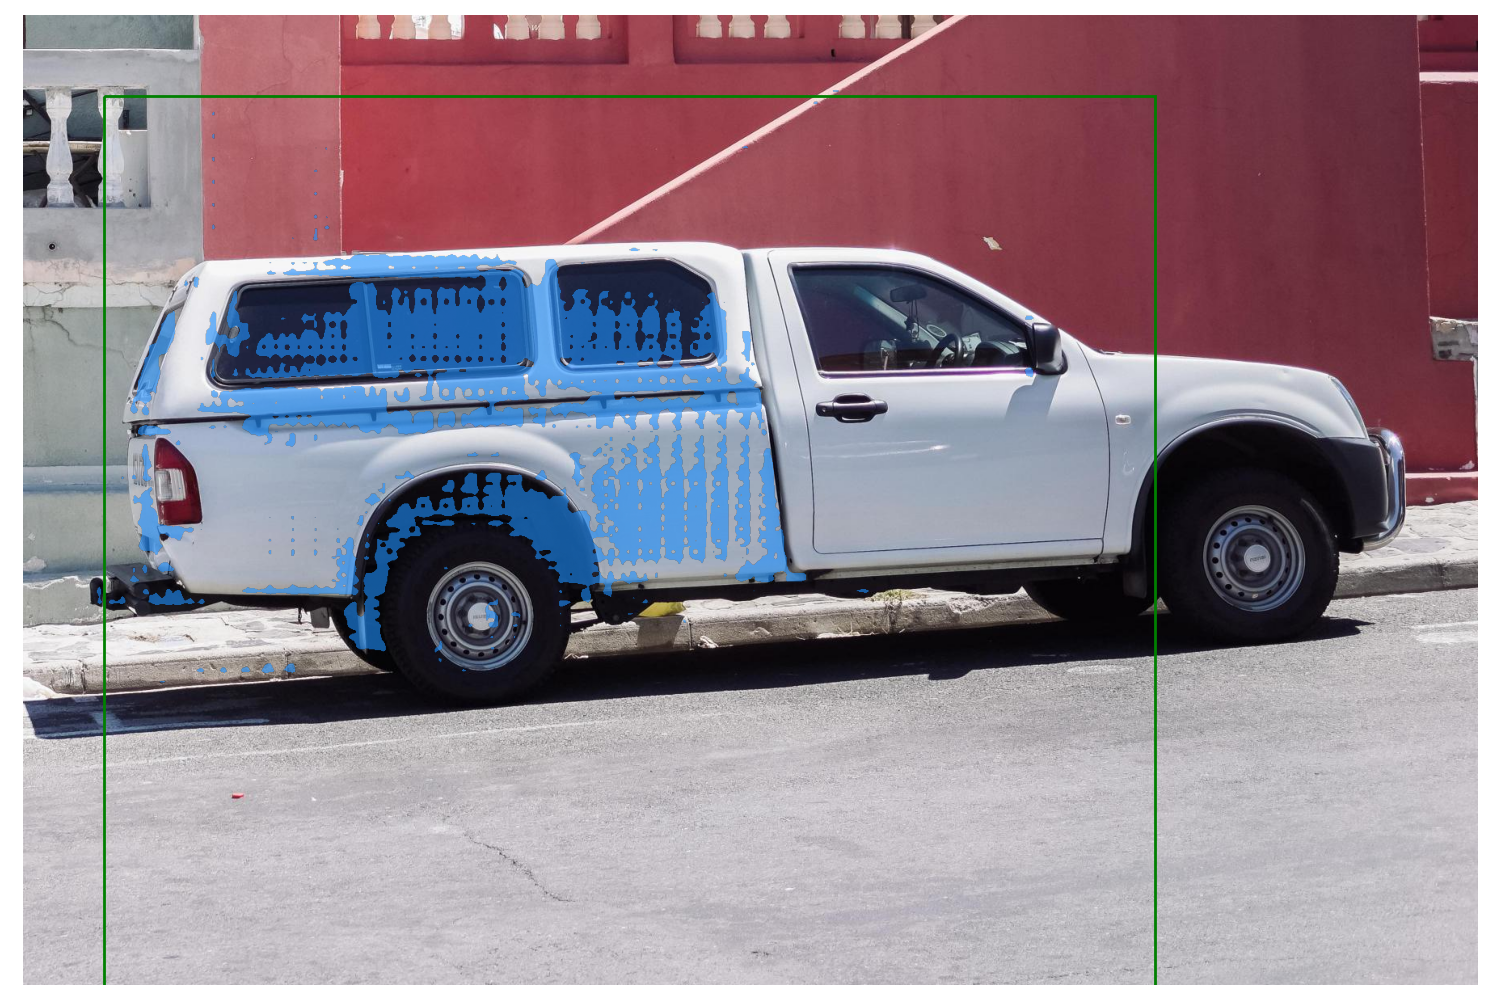
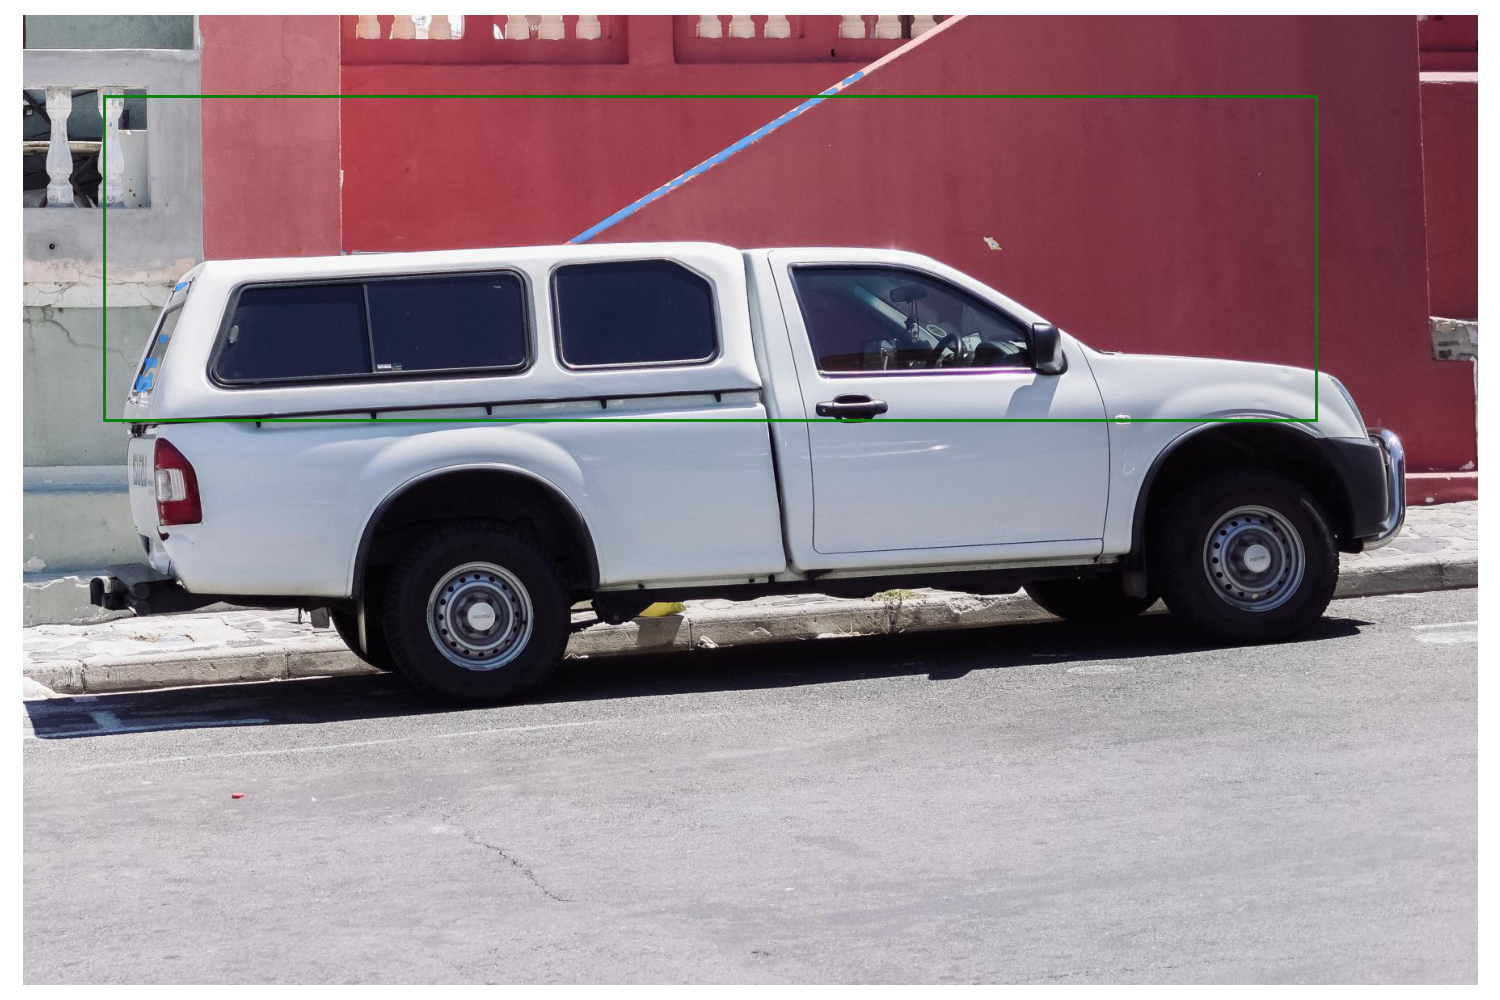
pic

diff --git a/changepth.py b/changepth.py
@@ -10,42 +10,40 @@ torch.cuda.manual_seed(seed)
 torch.cuda.manual_seed_all(seed)
 
 
-def train_model():
-
-    # torch.backends.cudnn.deterministic = True
-    device = torch.device("cuda")
-    print("CUDA visible devices: " + str(torch.cuda.device_count()))
-    print("CUDA Device Name: " + str(torch.cuda.get_device_name(device)))
 
 
-
-    # student model
-    # model_type = 'vit_b'
-    # checkpoint = None
-    # student_model = sam_model_registry[model_type](checkpoint=checkpoint)
-    # print(student_model.image_encoder)
+# torch.backends.cudnn.deterministic = True
+device = torch.device("cuda")
+print("CUDA visible devices: " + str(torch.cuda.device_count()))
+print("CUDA Device Name: " + str(torch.cuda.get_device_name(device)))
 
 
-    state_dict = torch.load('checkpoints/sam_vit_b_0b3195.pth')
 
-    
+# student model
+# model_type = 'vit_b'
+# checkpoint = None
+# student_model = sam_model_registry[model_type](checkpoint=checkpoint)
+# print(student_model.image_encoder)
 
-    
-    for i in range(0,24):
-        originkey = "image_encoder.blocks."+str(i)+".attn.qkv.weight"
-        state_dict["image_encoder.blocks."+str(i)+".attn.q.weight"] = state_dict[originkey][0:1024]
-        state_dict["image_encoder.blocks."+str(i)+".attn.k.weight"] = state_dict[originkey][1024:2048]
-        state_dict["image_encoder.blocks."+str(i)+".attn.v.weight"] = state_dict[originkey][2048:3072]
-        del state_dict[originkey]
 
-        originkey = "image_encoder.blocks."+str(i)+".attn.qkv.bias"
-        state_dict["image_encoder.blocks."+str(i)+".attn.q.bias"] = state_dict[originkey][0:1024]
-        state_dict["image_encoder.blocks."+str(i)+".attn.k.bias"] = state_dict[originkey][1024:2048]
-        state_dict["image_encoder.blocks."+str(i)+".attn.v.bias"] = state_dict[originkey][2048:3072]
-        del state_dict[originkey]
 
-    
-    for key, value in state_dict.items():
-        print(key,value.shape)
+state_dict = torch.load('checkpoints/sam_vit_b_0b3195.pth')
 
-    torch.save(state_dict,'checkpoints/sam_vit_b_qkv.pth')
+for i in range(0,24):
+    originkey = "image_encoder.blocks."+str(i)+".attn.qkv.weight"
+    state_dict["image_encoder.blocks."+str(i)+".attn.q.weight"] = state_dict[originkey][0:1024]
+    state_dict["image_encoder.blocks."+str(i)+".attn.k.weight"] = state_dict[originkey][1024:2048]
+    state_dict["image_encoder.blocks."+str(i)+".attn.v.weight"] = state_dict[originkey][2048:3072]
+    del state_dict[originkey]
+
+    originkey = "image_encoder.blocks."+str(i)+".attn.qkv.bias"
+    state_dict["image_encoder.blocks."+str(i)+".attn.q.bias"] = state_dict[originkey][0:1024]
+    state_dict["image_encoder.blocks."+str(i)+".attn.k.bias"] = state_dict[originkey][1024:2048]
+    state_dict["image_encoder.blocks."+str(i)+".attn.v.bias"] = state_dict[originkey][2048:3072]
+    del state_dict[originkey]
+
+
+for key, value in state_dict.items():
+    print(key,value.shape)
+
+torch.save(state_dict,'checkpoints/sam_vit_b_qkv.pth')

diff --git a/inference.py b/inference.py
@@ -146,7 +146,7 @@ def test_model():
 
 
 ################ Box Prompt ################
-        input_box = np.array([100, 100,1400, 1500])
+        input_box = np.array([100, 100,1600, 500])
         masks, scores, logits = predictor.predict(
         point_coords=None,
         point_labels=None,

diff --git a/README.md b/README.md
@@ -1,6 +1,7 @@
 # SlimSAM: 0.1% Data Makes Segment Anything Slim
 
 <div align="center">
+<img src="images/paper/title.png" width="90%">
 <img src="images/paper/intro.PNG" width="50%">
 <img src="images/paper/process.PNG" width="100%">
 </div>
@@ -48,7 +49,12 @@ See [here](https://github.com/cocodataset/cocoapi/blob/master/PythonAPI/pycocoto
 
 ## <a name="Models"></a>Model Checkpoints
 
-The base model of our method is available. To enhance collaboration with our dependency dectection algorithm, we have broken down the original image encoder's qkv layer into three distinct linear layers: q, k, and v.
+The base model of our method is available. To enhance collaboration with our dependency dectection algorithm, we have split the original image encoder's qkv layer into three distinct linear layers: q, k, and v.
+<div align="center">
+<img src="images/paper/split.PNG" width="70%">
+</div>
+
+
 
 Click the links below to download the checkpoints of orginal SAM-B.
 
@@ -125,8 +131,11 @@ CUDA_VISIBLE_DEVICES=0 python prune_distill_step2.py  --traindata_path <train_da
 CUDA_VISIBLE_DEVICES=0 nohup python prune_distill_step1.py &>> record/vitb_step1_50.txt &
 CUDA_VISIBLE_DEVICES=1 nohup python prune_distill_step2.py &>> record/vitb_step2_50.txt &
 CUDA_VISIBLE_DEVICES=0 python prune_distill_step2.py --trainsize 8 --valsize 1 --gradsize 10 --epochs 3 -->
-
-
+CUDA_VISIBLE_DEVICES=1 nohup python predict2.py &>> record/predict77_box.txt &
+CUDA_VISIBLE_DEVICES=0 nohup python predict2.py &>> record/predict50_box.txt &
+CUDA_VISIBLE_DEVICES=1 nohup python predict2.py &>> record/vitb_box.txt &
+CUDA_VISIBLE_DEVICES=1 nohup python predict3.py &>> record/predictmob_box.txt &
+CUDA_VISIBLE_DEVICES=1 python predict3.py
 
 
 
